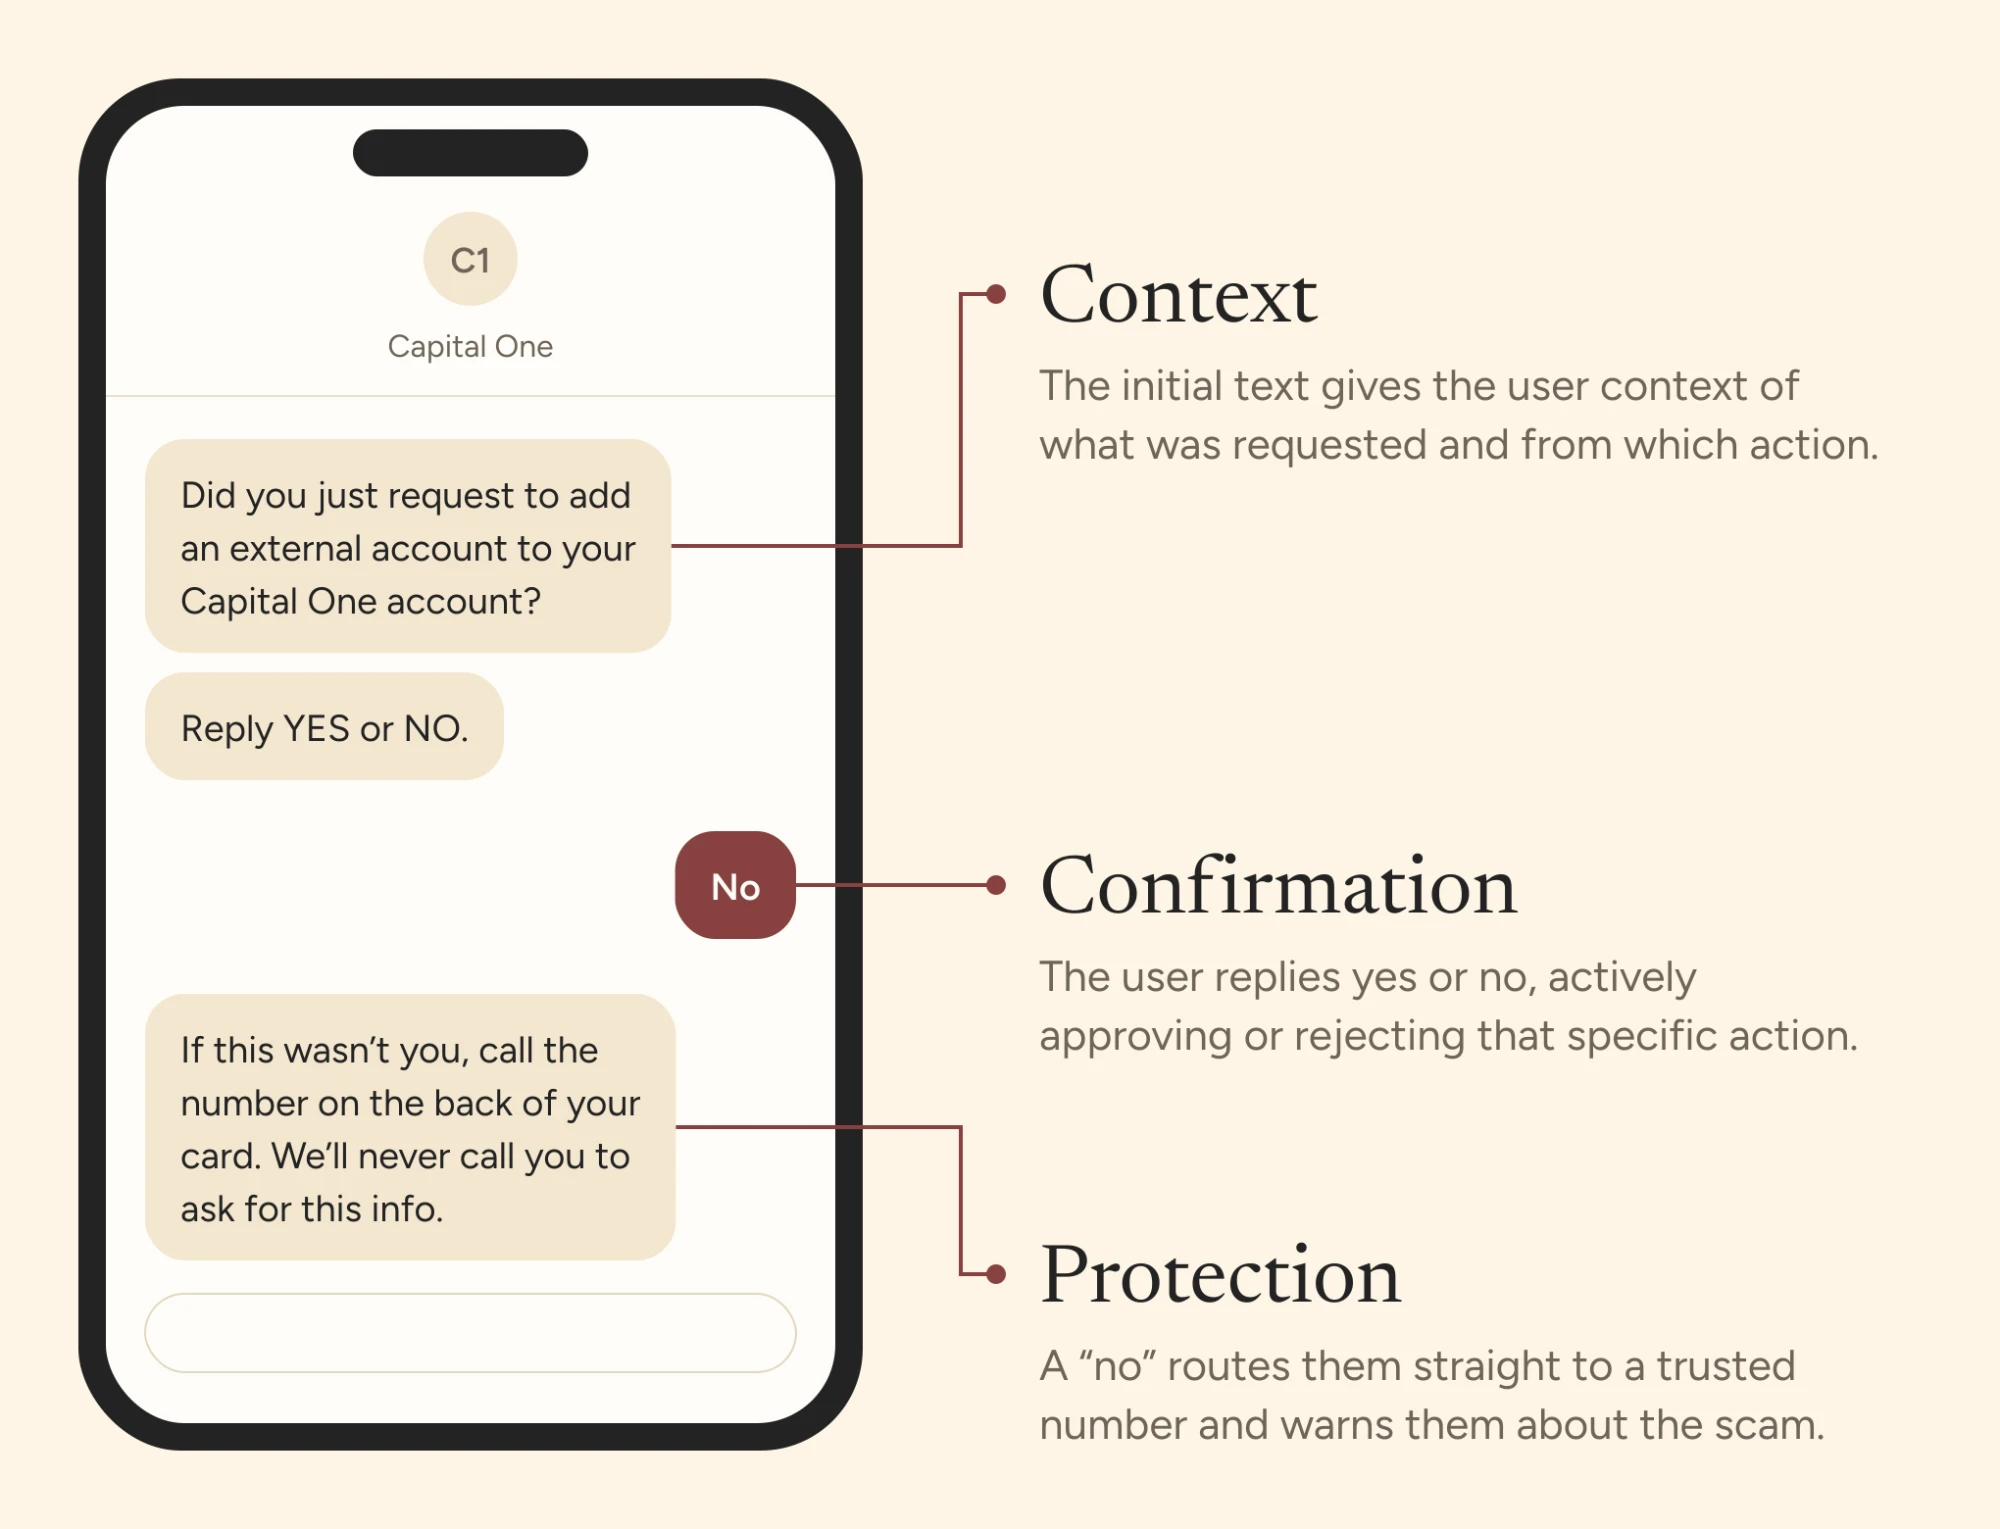
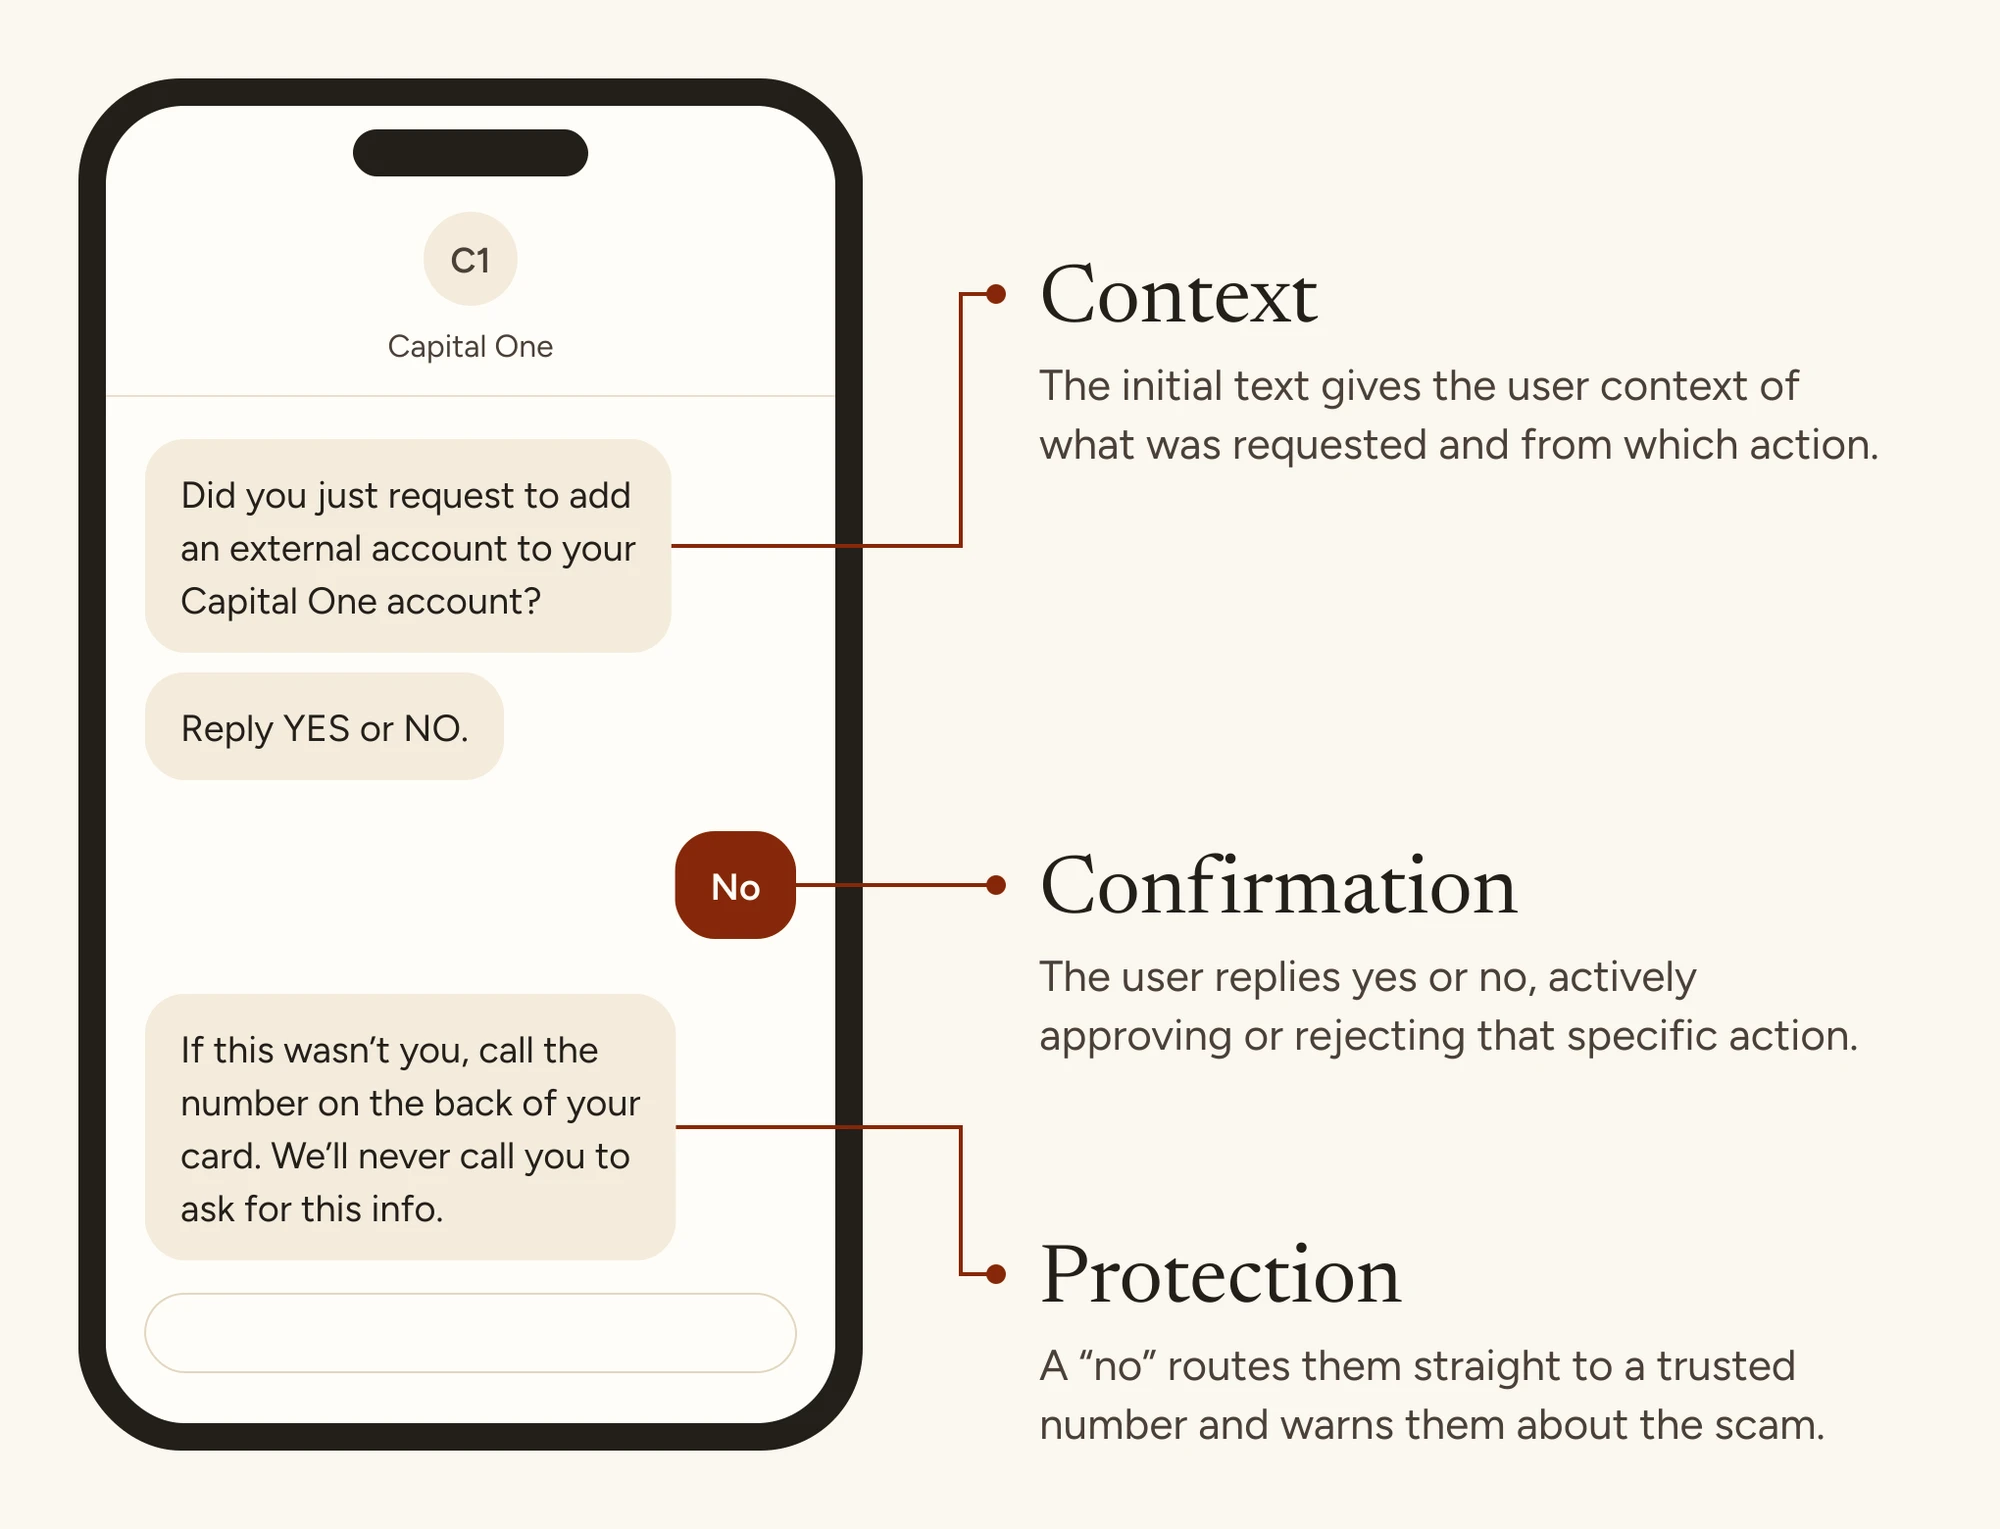
Rewrite iOTP problem section, fix fragment, swap after-state image, drop quote
- Problem section: new heading, two new context/framing paragraphs,
  moved the drop-off consequence into a ps2 paragraph, added a
  Context/Confirmation/Protection list, and set the before-state
  figure to full width
- Fixed a sentence fragment in "Finding the drop-off point"
- Swapped the after-state image for a tighter crop
  (case-iotp-after.jpg); the homepage card still uses the original
  case-iotp.jpg
- Replaced case-iotp-sms-flow.webp with the updated diagram
- Cleared the quote/quoteWho on this case (was an American Express
  colleague's testimonial, doesn't belong on a Capital One case)

Claude-Session: https://claude.ai/code/session_011oVeicv6pttJWt6Z6wHw5c

diff --git a/index.html b/index.html
@@ -415,16 +415,26 @@ class Component extends DCLogic {
       client: 'Capital One', tags: ['Authentication', 'Interaction Design', 'Research'],
       hooks: ['how I decided where the moment of friction should go', 'the tradeoff between security cost and completion rate', 'what I would test next if I were still on it'],
       sections: [
-        { h: 'The problem: iOTP is a secure flow but has a drop-off problem', ps: [
+        { h: 'The problem: a secure flow users kept abandoning', ps: [
           "Capital One customers are quietly being protected by a layered authentication system every time they log in. For more risky tasks like wiring money, users are asked to complete a secondary authentication step to prove it's really them.",
-          'One of the more secure methods in our toolkit is Interactive OTP (iOTP), a verification flow where instead of an auto-filled code, users are asked to leave the app, go to their messages, and actively confirm their identity. While more secure than standard OTP, it introduces more friction.',
-          "The main issue for the iOTP flow is that users kept dropping off. They would expect the OTP code to auto-populate like they're used to and abandon when it didn't. This lower completion rate meant that the largest Capital One lines of business didn't feel comfortable implementing it, and thereby exposing themselves to higher levels of risk."
-        ], fig: 'before state / where users dropped off', figImg: 'assets/case-iotp-sms-flow.webp' },
+          "SMS one time pins are Capital One's most used authenticator, which also makes them a favorite target for fraudsters. One of the most common attacks is vishing: a scammer calls pretending to be from Capital One and talks the user into reading back their code. A standard OTP can't protect against that, because the code on its own doesn't tell the user what it's unlocking.",
+          "Interactive OTP (iOTP) closes that gap by turning the code into a conversation. Instead of a string of numbers, users get a text that does three things:"
+        ],
+          list: [
+            "Context: it tells them exactly what was requested, like adding an external account",
+            "Confirmation: it asks them to reply yes or no, so they're approving or rejecting that specific action",
+            "Protection: if they reply no, it points them to the number on the back of their card and reminds them Capital One will never call asking for this info"
+          ],
+          ps2: [
+            "That's what makes iOTP more secure. It's also exactly what made it harder to finish, since users had to leave the app and actually engage instead of waiting for a code to autofill.",
+            "The main issue for the iOTP flow is that users kept dropping off. They would expect the OTP code to auto-populate like they're used to and abandon when it didn't. This lower completion rate meant that the largest Capital One lines of business didn't feel comfortable implementing it, which left them exposed to more risk."
+          ],
+          fig: 'how iOTP works / context, confirmation, protection', figImg: 'assets/case-iotp-sms-flow.webp', figWide: true },
         { h: 'Understanding the role of friction in authentication', ps: [
           "Before touching any designs, I dug into the research database to see what relevant information I could find. Luckily, researchers on my team were doing some investigation into how customers view friction during authentication. Through their findings, I learned that users expect a little bit of friction when accessing their money to feel safe. They want to feel that their bank takes protecting their money seriously, but they don't want to slow down unnecessarily either. This means that the goal wasn't to eliminate the iOTP friction completely, but instead to calibrate it."
         ] },
         { h: 'Finding the drop-off point', ps: [
-          'Through looking at funnel analytics given to me by my PM and dev team, we found the core failure point was that users didn\'t realize they had to leave the Capital One app. Since modern OTP had trained people to expect an autofill of the code. My hunch was that this specifically tripped up the users.'
+          'Through looking at funnel analytics given to me by my PM and dev team, we found the core failure point was that users didn\'t realize they had to leave the Capital One app. Modern OTP has trained people to expect the code to autofill, and my hunch was that this is what tripped users up.'
         ] },
         { h: 'Brainstorming solutions, testing with users', ps: ['I started with four hypotheses about why users were dropping off and designed a flow around each. Once I showed these to my product and tech partners, we narrowed it down to the three strongest to test with users.'],
           list: ["Hypothesis: Users don't know they can't enter the code right away. Experiment: Copy changes only, telling users to reply to our text before looking for a code. This was the cheapest and easiest fix, so we wanted to see how far it could get us on its own.", "Hypothesis: Users don't know they have to open their messaging app. Experiment: An explanatory screen before the text is sent, with a button that opens their messages directly.", "Hypothesis: Users don't trust a text asking them to reply. Experiment: Reframing the setup as \"Get a text from Capital One\" so the reply step felt expected and legitimate."],
@@ -435,15 +445,14 @@ class Component extends DCLogic {
             'A modal at the critical moment: rather than a preparatory screen users could skim past, a modal interrupted the flow at the exact point where confusion was highest, forcing a moment of pause.',
             'Revised copy: language that reframed the extra step as a sign of stronger security rather than an inconvenience. The goal was to make users feel like the friction was working for them, not against them. For users moving quickly through the flow, the copy provided a clear signal that iOTP was different from standard OTP.',
             'One text instead of two: a behind-the-scenes optimization that reduced the number of SMS sent per authentication attempt, lowering cost per session without any impact on the user experience. Better UX and lower cost is a win-win!'
-          ], fig: 'after state / the calibrated flow', figImg: 'assets/case-iotp.jpg' },
+          ], fig: 'after state / the modal at the moment of confusion', figImg: 'assets/case-iotp-after.jpg' },
         { h: 'Outcomes, handoff, and reflection', ps: [
           'The redesign projected a 20% improvement in user completion rates based on usability testing data, ahead of A/B test launch. SMS cost per session was also reduced, lowering operational overhead without any user-facing changes. These findings were then presented directly to the Capital One Card team, the largest line of business, with the expectation that smaller lines of business would follow suit once Card was on board.',
           'With usability testing complete, designs were handed off to development and queued for A/B testing to validate the projected improvements at scale.',
           "This project reinforced something I carry into every authentication or high-stakes flow: the goal is never zero friction. It's the right friction. Users need to feel that their bank is working to protect them and the design's job is to make that clear."
         ] }
       ],
-      quote: "Latika is a strong thinker. She thinks through the project problems and learns the 'why' behind the work. She works extremely well with stakeholders and team and is a delight to work with. Her optimism and positive attitude make collaborating with her fun. She is a very fast learner and a UX-er at heart.",
-      quoteWho: 'Noelle Fair, design leader who managed Latika directly'
+      quote: '', quoteWho: ''
     },
     {
       slug: 'identity-platform',
